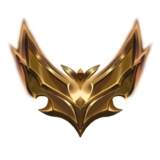
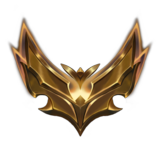
crop rank images

diff --git a/src/styles/quiz-styles.module.scss b/src/styles/quiz-styles.module.scss
@@ -60,7 +60,8 @@ h2 {
 }
 
 h3 {
-    @include heading-margins;
+    margin-bottom: 10px;
+    margin-top: 10px;
     font-size: 24px;
 }
 
@@ -139,8 +140,10 @@ p {
         grid-gap: 20px;
         grid-template-columns: repeat(2, auto-fit);
         // grid-template-rows: repeat(2, auto-fit);
+        box-sizing: border-box;
         width: 100%;
         margin-bottom: 10px;
+        padding: 0 20px;
         // align-items: center;
         // justify-items: center;
 
@@ -172,8 +175,12 @@ p {
 .endView {
     @include flex-column-container;
 
+    h2 {
+        margin-bottom: 10px;
+    }
+
     .rank {
-        margin-top: 20px;
+        margin-top: 10px;
         margin-bottom: 20px;
 
         img {
